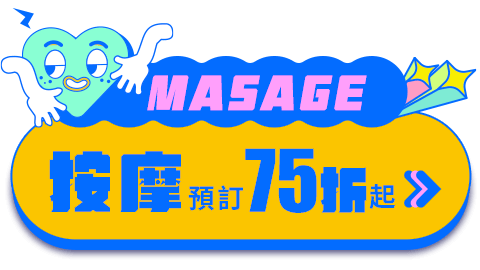
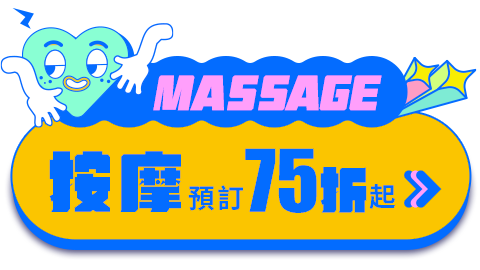
h
h

Changed region(s): [[0.5, 0.2667, 0.8125, 0.4148], [0.2812, 0.2667, 0.5, 0.4148]]

diff --git a/2022_funnow/index.html b/2022_funnow/index.html
@@ -5,7 +5,7 @@
 <head>
   
 	<meta http-equiv="Content-Type" content="text/html; charset=utf-8" />
-  <title>PChome享樂預訂來了!餐廳按摩預訂 團購超殺價</title>
+  <title>【PChome24h購物】PChome享樂預訂來了!餐廳按摩預訂 團購超殺價</title>
   <meta property="og:title" content="【PChome24h購物】PChome享樂預訂來了!餐廳按摩預訂 團購超殺價">
 	<meta property="og:description" content="台北市6小時到貨(試營運)，全台灣24小時到貨！"/>
 	<meta property="og:image" content="https://a.ecimg.tw/css/2016/style/images/v201607/sitelogo/h24.png">
@@ -33,7 +33,7 @@
 
 <body>
   <div  class="wrapper">
-<header class="navigation">
+<header class="navigation" id="top">
   <nav class="navbar navbar-expand-lg navbar-dark">
     <a class="navbar-brand" href="https://24h.pchome.com.tw/"><img src="images/logo_24_w.svg" alt="PChome24h購物"></a>
 
@@ -41,10 +41,10 @@
     <div class="collapse navbar-collapse text-center" id="navigation">
       <ul class="navbar-nav ml-auto">
         <li class="nav-item">
-          <a class="nav-link" href="javascript:void(0)" data-href="#contentB" id="navbar">美食按摩預訂</a>
+          <a class="nav-link" href="javascript:void(0)" data-href="#contentA" id="navbar">美食按摩預訂</a>
         </li>
         <li class="nav-item">
-          <a class="nav-link" href="javascript:void(0)" data-href="#contentA" id="navbar">超殺團購</a>
+          <a class="nav-link" href="javascript:void(0)" data-href="#contentB" id="navbar">超殺團購</a>
         </li>
         <li class="nav-item">
           <a class="nav-link" href="javascript:void(0)" data-href="#contentC" id="navbar">如何預訂</a>
@@ -57,8 +57,8 @@
 <menu><!--for mobile-->
     <ul>
       
-      <li><a href="javascript:void(0)" data-href="#contentB" id="navbar">美食按摩預訂</a></li>
-      <li><a href="javascript:void(0)" data-href="#contentA" id="navbar">超殺團購</a></li>
+      <li><a href="javascript:void(0)" data-href="#contentA" id="navbar">美食按摩預訂</a></li>
+      <li><a href="javascript:void(0)" data-href="#contentB" id="navbar">超殺團購</a></li>
       <li><a href="javascript:void(0)" data-href="#contentC" id="navbar">如何預訂</a></li>
 
     </ul>
@@ -66,7 +66,7 @@
 <!-- hero area -->
 <section class="hero-area bg-primary" id="parallax">
   
-  <div class="container px-0 " id="top">
+  <div class="container px-0 ">
     <div class="row rellax" data-rellax-speed="-5">
       <h1 style="display:none">PChome享樂預訂來了!餐廳按摩預訂 團購超殺價</h1> 
       <div class="buruburu header_title mx-auto"><img src="images/header_title.png"></div>
@@ -127,10 +127,10 @@
       </div>
       </div>
        <!-- Swiper -->
-    <div class="swiper mySwiper aos-init aos-animate" data-aos="fade-up"  data-aos-delay="200">
+    <div class="swiper mySwiper aos-init aos-animate" data-aos="fade-up"  data-aos-delay="100">
       <div class="swiper-wrapper">
         <div class="swiper-slide">
-          <a href="" target="_blank" title="涮辛酸 單人麻辣火鍋吃到飽">
+          <a href="https://24h.m.pchome.com.tw/AppAction/Funnow/Search/1/11693" target="_blank" title="涮辛酸 單人麻辣火鍋吃到飽">
           <img src="images/funnow01.png" alt="涮辛酸 單人麻辣火鍋吃到飽"/></a>
         </div>
         <div class="swiper-slide">
@@ -138,7 +138,7 @@
           <img src="images/funnow02.png" alt="晶湯匙 現場折抵 600 元" /></a>
         </div>
         <div class="swiper-slide">
-          <a href="" target="_blank" title="森SPA足體養生會館 頂級薰衣草全身精油按摩 60min">
+          <a href="https://24h.m.pchome.com.tw/AppAction/Funnow/Search/1/11123" target="_blank" title="森SPA足體養生會館 頂級薰衣草全身精油按摩 60min">
           <img src="images/funnow03.png" alt="森SPA足體養生會館 頂級薰衣草全身精油按摩 60min"/></a>
         </div>
         <div class="swiper-slide">
@@ -146,7 +146,7 @@
           <img src="images/funnow04.png" alt="昇之道健康養生會館"/></a>
         </div>
         <div class="swiper-slide">
-          <a href="" target="_blank" title="月荷公益館 足部紓壓 60min">
+          <a href="https://24h.m.pchome.com.tw/AppAction/Funnow/Search/3/11699" target="_blank" title="月荷公益館 足部紓壓 60min">
           <img src="images/funnow05.png" alt="月荷公益館 足部紓壓 60min"/></a>
         </div>
         
@@ -155,7 +155,7 @@
     </div>
     <!-- //Swiper -->
 
-    <div class="row mt-5 aos-init aos-animate" data-aos="fade-up"  data-aos-delay="300">
+    <div class="row mt-5 aos-init aos-animate justify-content-center" data-aos="fade-up"  data-aos-delay="200">
       <div class="col-md-4 mb-2 mb-md-0 px-5 px-sm-2">
         <div class="card hover-link">
           <a href="https://24h.m.pchome.com.tw/AppAction/Funnow/Search/1/1005" target="_blank" title="餐廳預訂8折起">
@@ -164,29 +164,35 @@
       </div>
       <div class="col-md-4 mb-2 mb-md-0 px-5 px-sm-2">
         <div class="card hover-link">
-          <a href="https://24h.m.pchome.com.tw/AppAction/Funnow/Search/1/1100" target="_blank" title="按摩預定75折起">
-          <img src="images/btn2.png" class="w-100" alt="按摩預定75折起">
+          <a href="https://24h.m.pchome.com.tw/AppAction/Funnow/Search/1/1100" target="_blank" title="按摩預訂75折起">
+          <img src="images/btn2.png" class="w-100" alt="按摩預訂75折起">
           </a>
         </div>
       </div>
       <div class="col-md-4 mb-0 mb-md-0 px-5 px-sm-2">
-        <div class="card hover-link">
+        <div class="card hover-link d-none d-lg-flex ">
+          <a href="https://www.pchomeec.tw/sites/lifestyle" target="_blank" title="更多商品">
+         <img src="images/btn3a.png" class="w-100" alt="更多商品">
+         </a>
+        </div>
+        <div class="card hover-link d-flex d-lg-none ">
           <a href="https://www.pchomeec.tw/sites/lifestyle" target="_blank" title="更多商品">
          <img src="images/btn3.png" class="w-100" alt="更多商品">
          </a>
         </div>
       </div>
-      
+      <p class="text-center font-weight-bold text-light" style="font-size: 1.5em;letter-spacing:2px">＊ 此預訂服務限APP使用</p>
     </div>
-  </div>
+    
+  </div> 
     <!--//預訂-->
       <!--團購-->
     <div class="container order-2 order-lg-1 pb-lg-5 pt-5 pt-lg-0" id="contentB">
-    <div class="col-12 text-center px-0 aos-init aos-animate" data-aos="fade-up">
+    <div class="col-12 text-center px-0 aos-init aos-animate" data-aos="fade-up"  data-aos-delay=" ">
       <h2 class="section-title" title="團媽由我當"><img class="w-100"  src="images/subtit_02.png" alt="團媽由我當"></h2>
     </div>
     <!--倒數-->
-     <div class="row flex-column flex-sm-row align-items-center px-1 px-sm-0 aos-init aos-animate" data-aos="fade-up"  data-aos-delay="200">
+     <div class="row flex-column flex-sm-row align-items-center px-2 px-sm-0 aos-init aos-animate" data-aos="fade-up"  data-aos-delay="100">
 <div class="col-9 col-sm-4 mb-3 mb-sm-0"><img class="w-100" src="images/timecount_tit.png" alt="10/2-10/9限時限量倒數"></div>
     <!-- FLIP -->
     <div class="tick col-sm-8" data-did-init="handleTickInit">
@@ -218,7 +224,7 @@
     </div>
  
     <!--//倒數-->
-    <div class="row mt-3 mt-sm-5 aos-init aos-animate" data-aos="fade-up"  data-aos-delay="300">
+    <div class="row mt-3 mt-sm-5 px-1 px-sm-0  aos-init aos-animate" data-aos="fade-up"  data-aos-delay="200">
       
       <div class="col-lg-3 col-6 mb-4 mb-lg-0 px-1 hover-link">
         <a href="https://24h.pchome.com.tw/prod/DBAEH0-A900B1F9V" target="_blank" title="北海道薯條三兄弟 團購10入價2990">
@@ -236,32 +242,32 @@
         </a>
       </div>
       <div class="col-lg-3 col-6 mb-4 mb-lg-0 px-1 hover-link">
-        <a href="" target="_blank" title="森田藥粧複合玻尿酸黑面膜6入/盒 團購12入799">
+        <a href="https://24h.pchome.com.tw/prod/DDABX3-A900EO4WQ" target="_blank" title="森田藥粧複合玻尿酸黑面膜6入/盒 團購12入799">
           <img class="w-100" src="images/item04.png" alt="森田藥粧複合玻尿酸黑面膜6入/盒 團購12入799">      
         </a>
       </div>
       
     </div>
-    <div class="row mt-3 mt-sm-5 aos-init aos-animate" data-aos="fade-up"  data-aos-delay="400">
+    <div class="row mt-3 mt-sm-5 px-1 px-sm-0 aos-init aos-animate" data-aos="fade-up"  data-aos-delay="200">
       
       <div class="col-lg-3 col-6 mb-4 mb-lg-0 px-1 hover-link">
         <a target="_blank" title="義美小泡芙享樂夾鏈包(香草牛奶＋特濃巧克力）團購10入XXX">
-          <img class="w-100" src="images/item05.png" alt="義美小泡芙享樂夾鏈包(香草牛奶＋特濃巧克力） 團購10入XXX">
+          <img class="w-100" src="images/item05a.png" alt="義美小泡芙享樂夾鏈包(香草牛奶＋特濃巧克力） 團購10入XXX">
         </a>
       </div>
       <div class="col-lg-3 col-6 mb-4 mb-lg-0 px-1 hover-link">
-        <a  target="_blank" title="桃城雞排 醬爆拌拌雞 團購10入XXX">
-          <img class="w-100" src="images/item06.png" alt="桃城雞排 醬爆拌拌雞 團購10入XXX">
+        <a  target="_blank" title="桃城雞排 醬爆拌拌雞(蜂蜜芥末/紫蘇梅) 團購10入XXX">
+          <img class="w-100" src="images/item06a.png" alt="桃城雞排 醬爆拌拌雞(蜂蜜芥末/紫蘇梅) 團購10入XXX">
         </a>
       </div>
       <div class="col-lg-3 col-6 mb-4 mb-lg-0 px-1 hover-link">
         <a  target="_blank" title="【HARIO】V60 無漂白濾紙100張 團購10入XXX">
-          <img class="w-100" src="images/item07.png" alt="【HARIO】V60 無漂白濾紙100張 團購10入XXX">    
+          <img class="w-100" src="images/item07a.png" alt="【HARIO】V60 無漂白濾紙100張 團購10入XXX">    
         </a>
       </div>
       <div class="col-lg-3 col-6 mb-4 mb-lg-0 px-1 hover-link">
         <a target="_blank" title="AVEDA  隨行按摩梳(小) 團購10入XXX">
-          <img class="w-100" src="images/item08.png" alt="AVEDA  隨行按摩梳(小) 團購10入XXX">      
+          <img class="w-100" src="images/item08a.png" alt="AVEDA  隨行按摩梳(小) 團購10入XXX">      
         </a>
       </div>
       

diff --git a/2022_funnow/css/style.css b/2022_funnow/css/style.css
@@ -91,7 +91,7 @@ h6, .h6 {
 }
 
 /* Button style */
-.btn {
+/* .btn {
   font-size: 22px;
   font-family: "Playfair Display", serif;
   text-transform: capitalize;
@@ -111,8 +111,8 @@ h6, .h6 {
 
 .btn:active {
   box-shadow: none;
-}
-
+} */
+/* 
 .btn-sm {
   font-size: 15px;
   padding: 10px 30px;
@@ -130,9 +130,9 @@ h6, .h6 {
 
 .btn-primary:active {
   background: #fdce1f !important;
-}
+} */
 
-.btn-primary:hover {
+/* .btn-primary:hover {
   background: #f1c600;
 }
 
@@ -149,7 +149,7 @@ h6, .h6 {
 
 .btn-transparent:active, .btn-transparent:hover {
   color: #f1c600;
-}
+} */
 
 body {
   overflow-x: hidden;
@@ -266,13 +266,13 @@ a:hover {
   opacity: .5;
 }
 
-.outline-0 {
+/* .outline-0 {
   outline: 0 !important;
 }
 
 .d-unset {
   display: unset !important;
-}
+} */
 
 .bg-primary {
   background:url(../images/sky.png) repeat #fdce1f !important;
@@ -296,7 +296,7 @@ a:hover {
 }
 
 .text-light {
-  color: #999999 !important;
+  color: #fcc400 !important
 }
 
 .mb-10 {
@@ -732,7 +732,7 @@ width: 266px;
 
 }
 /* service */
-.hover-bg-primary {
+/* .hover-bg-primary {
   transition: .3s ease;
 }
 
@@ -747,7 +747,7 @@ width: 266px;
 .active-bg-primary {
   transition: .3s ease;
   background: #f1c600;
-}
+} */
 
 
 
@@ -769,7 +769,7 @@ width: 266px;
 
 /* /service */
 /* portfolio */
-.hover-wrapper {
+/* .hover-wrapper {
   overflow: hidden;
 }
 
@@ -787,8 +787,8 @@ width: 266px;
 .hover-wrapper:hover .hover-overlay {
   opacity: 1;
   visibility: visible;
-}
-
+} */
+/* 
 .hover-overlay {
   position: absolute;
   height: 100%;
@@ -810,7 +810,7 @@ width: 266px;
   left: 0;
   right: 0;
   text-align: center;
-}
+} */
 
 /* /portfolio */
 
